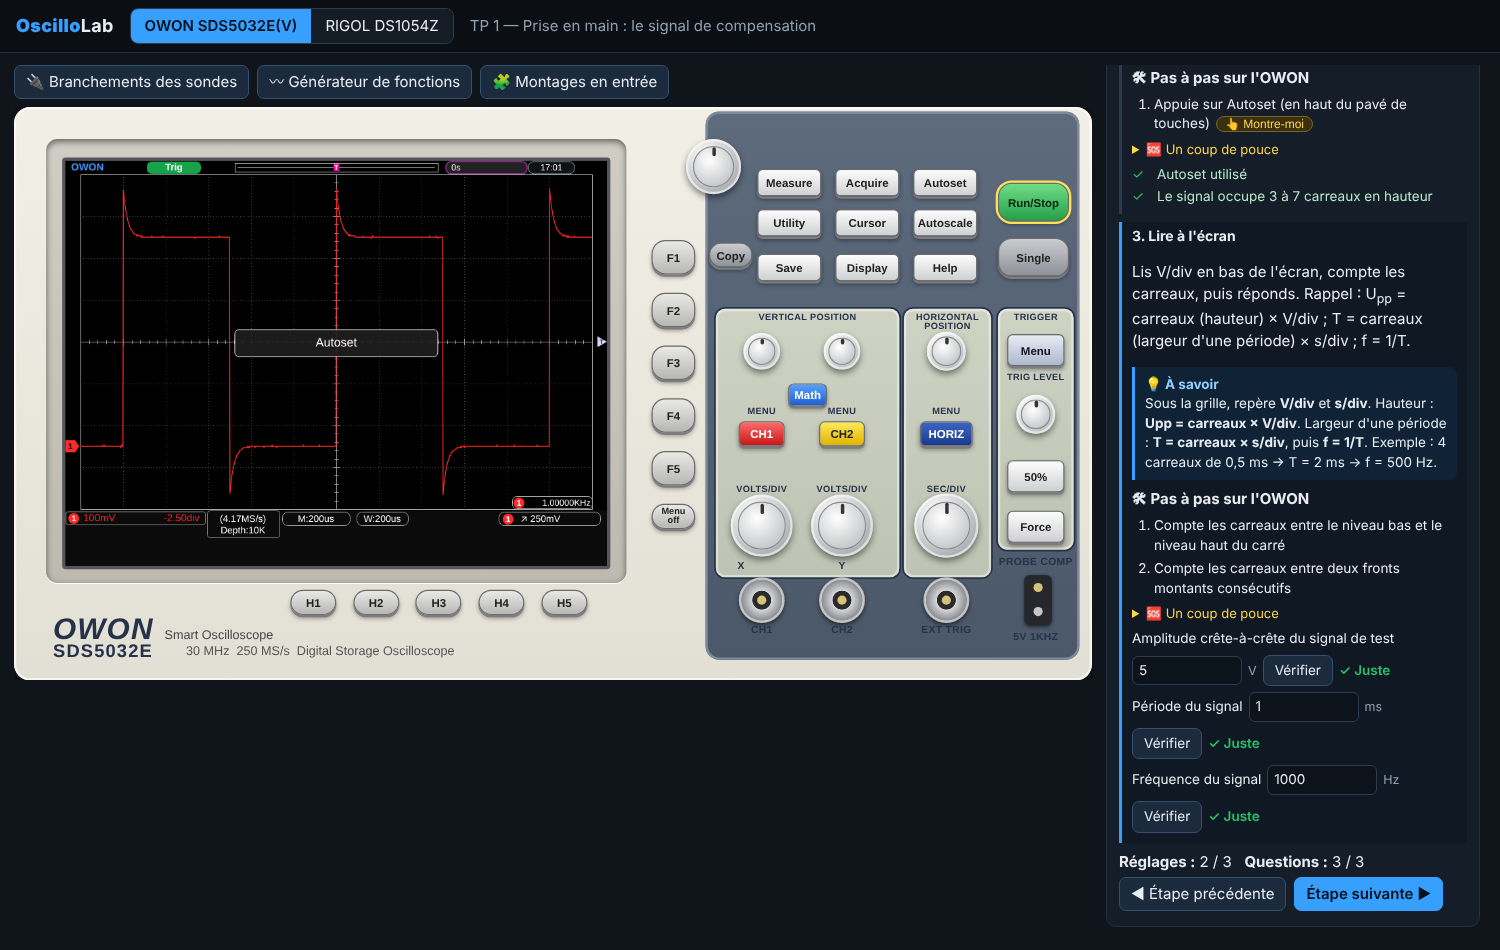
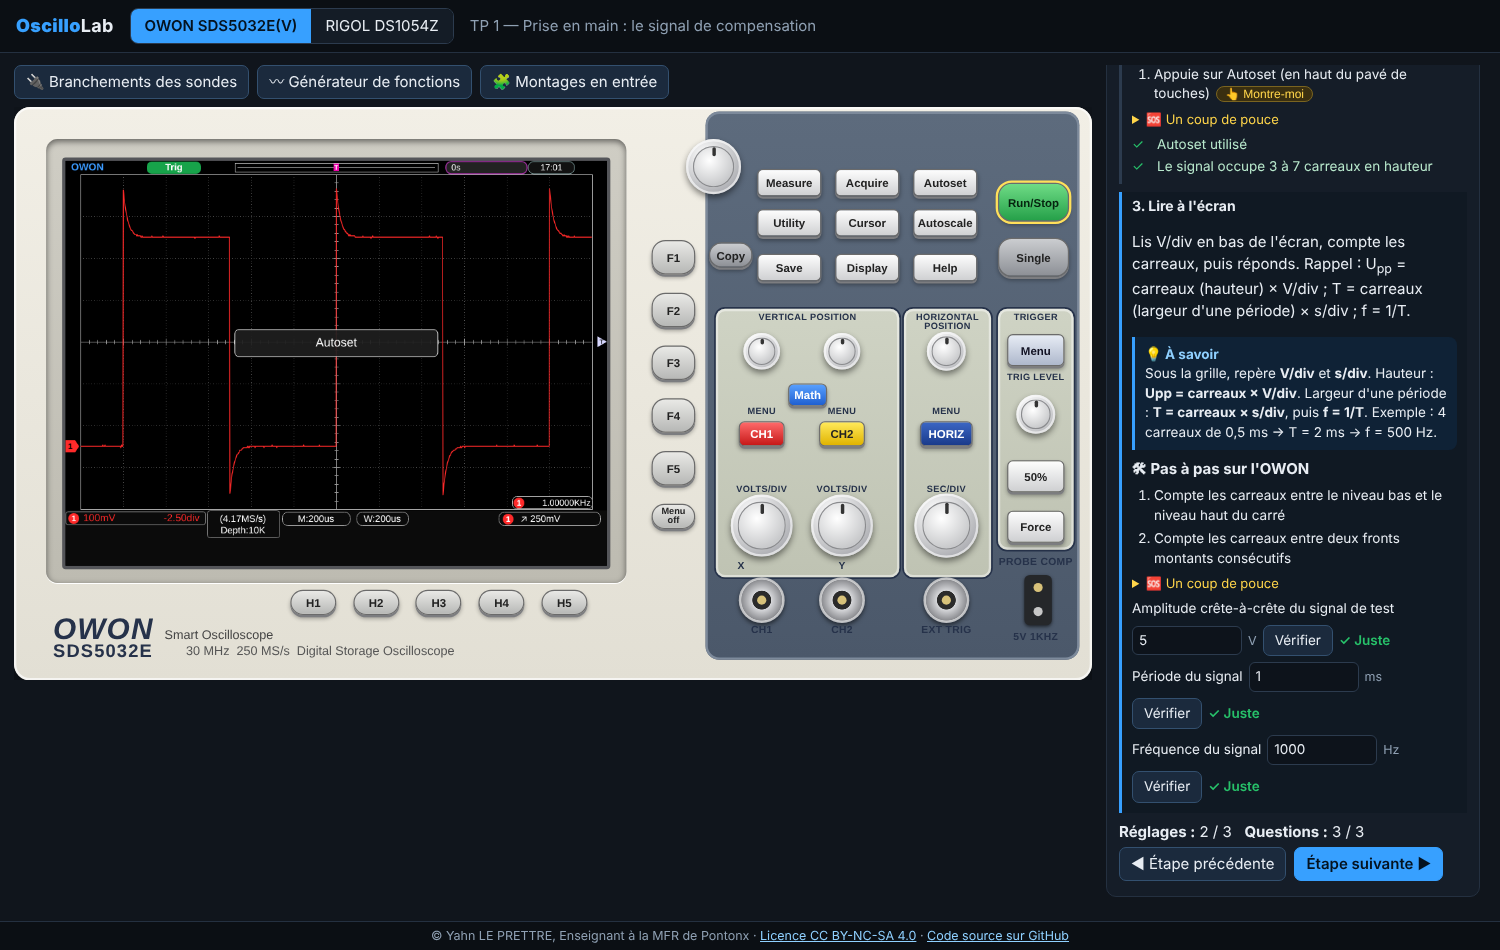
Licence CC BY-NC-SA 4.0 et copyright (comme les autres LAB) : README, LICENSE.md, pied de page, en-têtes
Claude-Session: https://claude.ai/code/session_018Ln2Xo12prChdSPrkdSn9D

Changed region(s): [[0.736, 0.0611, 0.9813, 0.9768], [0.276, 0.9768, 0.7053, 1.0]]

diff --git a/dist/oscillolab.html b/dist/oscillolab.html
@@ -1,5 +1,6 @@
 <!doctype html>
-<html lang="fr"><head><meta charset="utf-8"><meta name="viewport" content="width=device-width,initial-scale=1">
+<!-- OscilloLab — © Yahn LE PRETTRE, Enseignant à la MFR de Pontonx — Licence CC BY-NC-SA 4.0 — https://creativecommons.org/licenses/by-nc-sa/4.0/deed.fr -->
+<html lang="fr"><head><meta charset="utf-8"><meta name="author" content="Yahn LE PRETTRE"><meta name="copyright" content="© Yahn LE PRETTRE — CC BY-NC-SA 4.0"><meta name="viewport" content="width=device-width,initial-scale=1">
 <title>OscilloLab — simulateur d'oscilloscopes OWON SDS5032E et RIGOL DS1054Z</title>
 <style>
 :root { --bg:#10151c; --ink:#e8edf3; --mut:#8fa0b3; --acc:#37a0ff; --ok:#27c26a; --bad:#ff5a5a; }
@@ -127,6 +128,9 @@ details.hint { margin:6px 0; font-size:13px; } details.hint summary { cursor:poi
 
 .rkey.lit { background: linear-gradient(#d4ff6a,#8fe000) !important; color:#102 !important; box-shadow:0 0 0 1px #4a7a00, 0 0 10px #a6ff2a; }
 
+.foot { text-align:center; color:var(--mut); font-size:12.5px; padding:10px 14px 16px; border-top:1px solid #243040; } .foot a { color:#8fd0ff; }
+@media (min-width: 1251px) { .foot { position:fixed; left:0; right:0; bottom:0; background:#0b0f14; padding:5px 14px; } main { height: calc(100vh - 82px) !important; } #side { height: calc(100vh - 106px) !important; } }
+
 </style>
 </head><body>
 <header class="top"><h1><b>Oscillo</b>Lab</h1>
@@ -136,6 +140,7 @@ details.hint { margin:6px 0; font-size:13px; } details.hint summary { cursor:poi
 <div id="benchPop"><div data-p="wire"></div><div data-p="gbf"></div><div data-p="mont"></div></div>
 <div id="scopeWrap"><div id="scopeBox"></div></div></div>
 <aside id="side"><div id="tpPane"></div></aside></main>
+<footer class="foot">© Yahn LE PRETTRE, Enseignant à la MFR de Pontonx · <a rel="license" href="https://creativecommons.org/licenses/by-nc-sa/4.0/deed.fr" target="_blank">Licence CC BY-NC-SA 4.0</a> · <a href="https://github.com/YahnLP/OscilloLab" target="_blank">Code source sur GitHub</a></footer>
 <script>
 /* util.js — outils communs (navigateur et Node) */
 (function (g) {
@@ -2161,7 +2166,8 @@ T['masse'] = [
 
 </script>
 <script>
-/* app.js — assemblage : paillasse, oscilloscope, TP, boucle d'animation */
+/* app.js — assemblage : paillasse, oscilloscope, TP, boucle d'animation
+   © Yahn LE PRETTRE, Enseignant à la MFR de Pontonx — Licence CC BY-NC-SA 4.0 */
 (function (g) {
 'use strict';
 const OL = g.OL = g.OL || {};

diff --git a/index.html b/index.html
@@ -1,5 +1,5 @@
 <!doctype html>
-<html lang="fr"><head><meta charset="utf-8"><meta name="viewport" content="width=device-width,initial-scale=1">
+<html lang="fr"><head><meta charset="utf-8"><meta name="author" content="Yahn LE PRETTRE"><meta name="copyright" content="© Yahn LE PRETTRE — CC BY-NC-SA 4.0"><meta name="viewport" content="width=device-width,initial-scale=1">
 <title>OscilloLab — simulateur d'oscilloscopes OWON SDS5032E et RIGOL DS1054Z</title>
 <link rel="stylesheet" href="css/style.css">
 </head><body>
@@ -10,6 +10,7 @@
 <div id="benchPop"><div data-p="wire"></div><div data-p="gbf"></div><div data-p="mont"></div></div>
 <div id="scopeWrap"><div id="scopeBox"></div></div></div>
 <aside id="side"><div id="tpPane"></div></aside></main>
+<footer class="foot">© Yahn LE PRETTRE, Enseignant à la MFR de Pontonx · <a rel="license" href="https://creativecommons.org/licenses/by-nc-sa/4.0/deed.fr" target="_blank">Licence CC BY-NC-SA 4.0</a> · <a href="https://github.com/YahnLP/OscilloLab" target="_blank">Code source sur GitHub</a></footer>
 <script src="js/util.js"></script><script src="js/signals.js"></script><script src="js/profiles.js"></script>
 <script src="js/scope.js"></script><script src="js/measure.js"></script><script src="js/meas_ui.js"></script><script src="js/autoset.js"></script>
 <script src="js/ui.js"></script><script src="js/draw.js"></script><script src="js/ui_owon.js"></script><script src="js/ui_rigol.js"></script>

diff --git a/tools/build.js b/tools/build.js
@@ -3,5 +3,6 @@ const fs = require('fs'), path = require('path'); const root = path.join(__dirna
 let html = fs.readFileSync(path.join(root, 'index.html'), 'utf8');
 html = html.replace(/<link rel="stylesheet" href="([^"]+)">/g, (m, f) => '<style>\n' + fs.readFileSync(path.join(root, f), 'utf8') + '\n</style>');
 html = html.replace(/<script src="([^"]+)"><\/script>/g, (m, f) => '<script>\n' + fs.readFileSync(path.join(root, f), 'utf8').replace(/<\/script>/gi, '<\\/script>') + '\n</script>');
+html = html.replace('<!doctype html>', '<!doctype html>\n<!-- OscilloLab — © Yahn LE PRETTRE, Enseignant à la MFR de Pontonx — Licence CC BY-NC-SA 4.0 — https://creativecommons.org/licenses/by-nc-sa/4.0/deed.fr -->');
 fs.mkdirSync(path.join(root, 'dist'), { recursive: true }); const out = path.join(root, 'dist', 'oscillolab.html'); fs.writeFileSync(out, html);
 console.log('OK', out, (html.length / 1024).toFixed(0) + ' Ko');

diff --git a/css/style.css b/css/style.css
@@ -122,3 +122,6 @@ details.hint { margin:6px 0; font-size:13px; } details.hint summary { cursor:poi
 .lesson h4 { margin:12px 0 4px; color:#8fd0ff; }
 
 .rkey.lit { background: linear-gradient(#d4ff6a,#8fe000) !important; color:#102 !important; box-shadow:0 0 0 1px #4a7a00, 0 0 10px #a6ff2a; }
+
+.foot { text-align:center; color:var(--mut); font-size:12.5px; padding:10px 14px 16px; border-top:1px solid #243040; } .foot a { color:#8fd0ff; }
+@media (min-width: 1251px) { .foot { position:fixed; left:0; right:0; bottom:0; background:#0b0f14; padding:5px 14px; } main { height: calc(100vh - 82px) !important; } #side { height: calc(100vh - 106px) !important; } }

diff --git a/js/app.js b/js/app.js
@@ -1,4 +1,5 @@
-/* app.js — assemblage : paillasse, oscilloscope, TP, boucle d'animation */
+/* app.js — assemblage : paillasse, oscilloscope, TP, boucle d'animation
+   © Yahn LE PRETTRE, Enseignant à la MFR de Pontonx — Licence CC BY-NC-SA 4.0 */
 (function (g) {
 'use strict';
 const OL = g.OL = g.OL || {};

diff --git a/LICENSE.md b/LICENSE.md
@@ -1,0 +1,16 @@
+# Licence
+
+© Yahn LE PRETTRE, Enseignant à la MFR de Pontonx.
+
+**OscilloLab** (code, textes, TP et illustrations) est mis à disposition selon les termes de la licence
+**Creative Commons Attribution – Pas d'Utilisation Commerciale – Partage dans les Mêmes Conditions 4.0 International (CC BY-NC-SA 4.0)**.
+
+Texte officiel : <https://creativecommons.org/licenses/by-nc-sa/4.0/legalcode.fr>
+Résumé : <https://creativecommons.org/licenses/by-nc-sa/4.0/deed.fr>
+
+Vous pouvez partager et adapter ce travail, à condition de :
+- **citer l'auteur** et indiquer les modifications effectuées ;
+- **ne pas en faire un usage commercial** ;
+- **redistribuer vos adaptations sous la même licence**.
+
+OWON et RIGOL sont des marques de leurs propriétaires respectifs. OscilloLab est un outil pédagogique indépendant, non affilié à ces fabricants.
